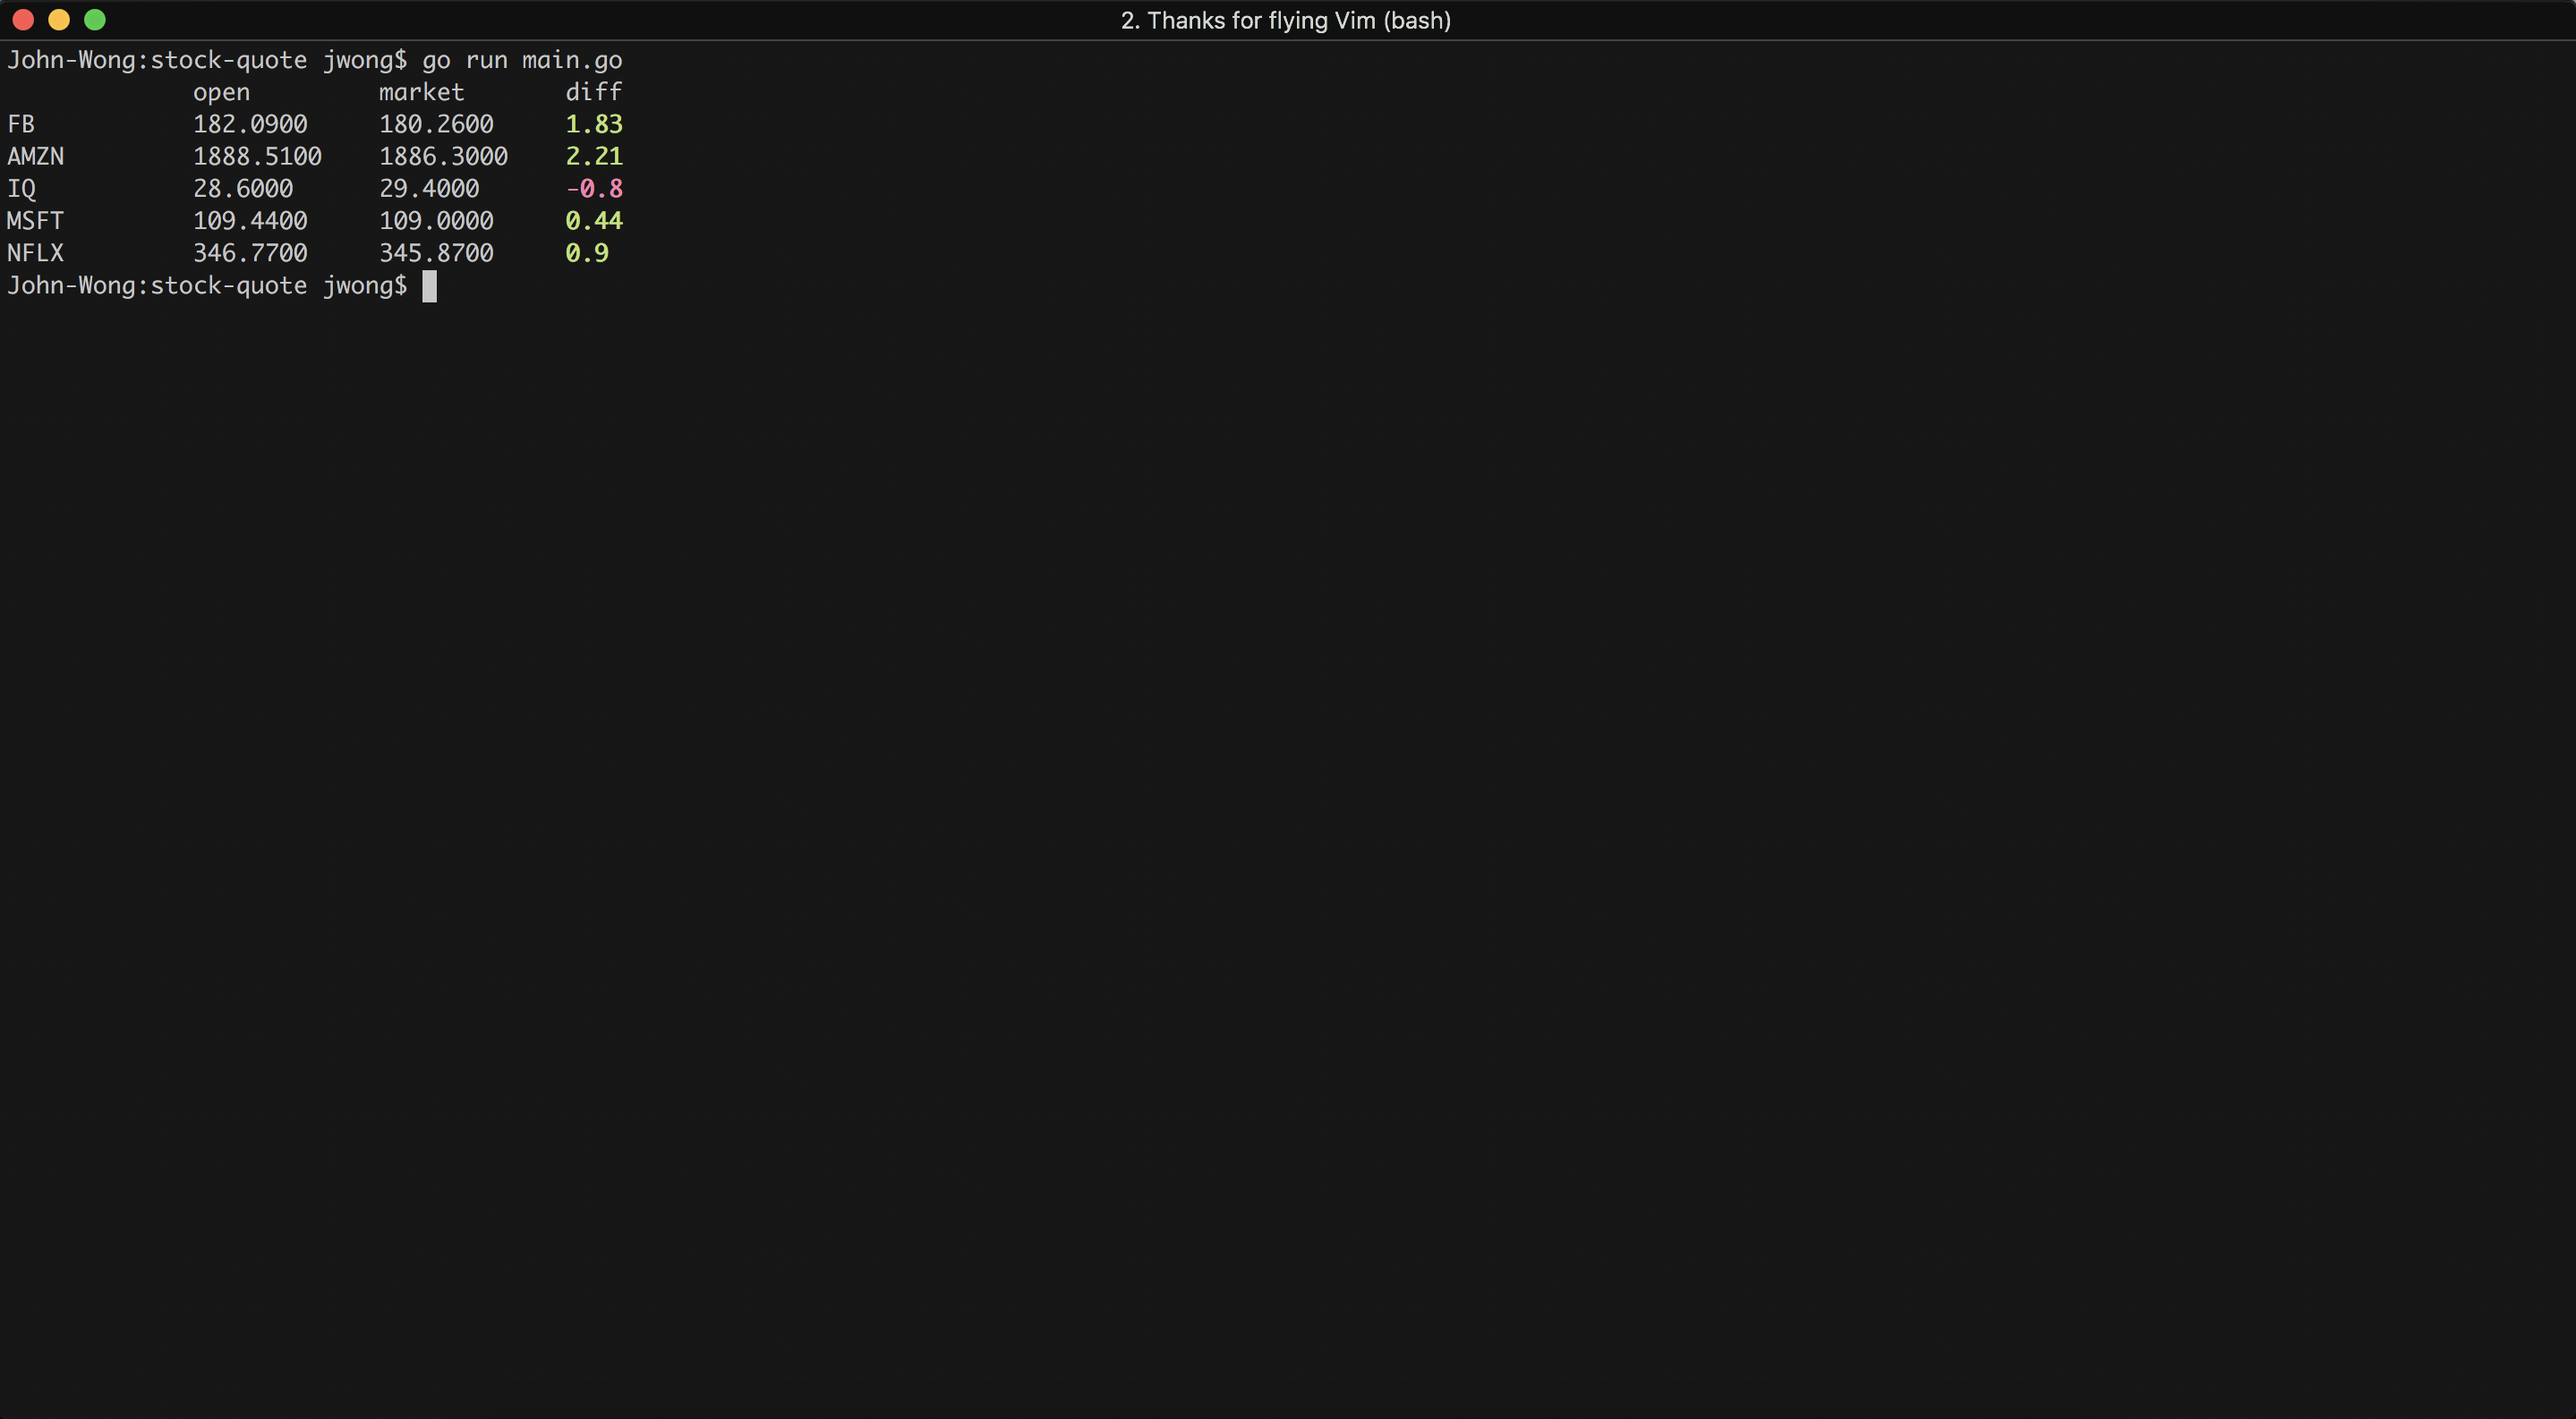
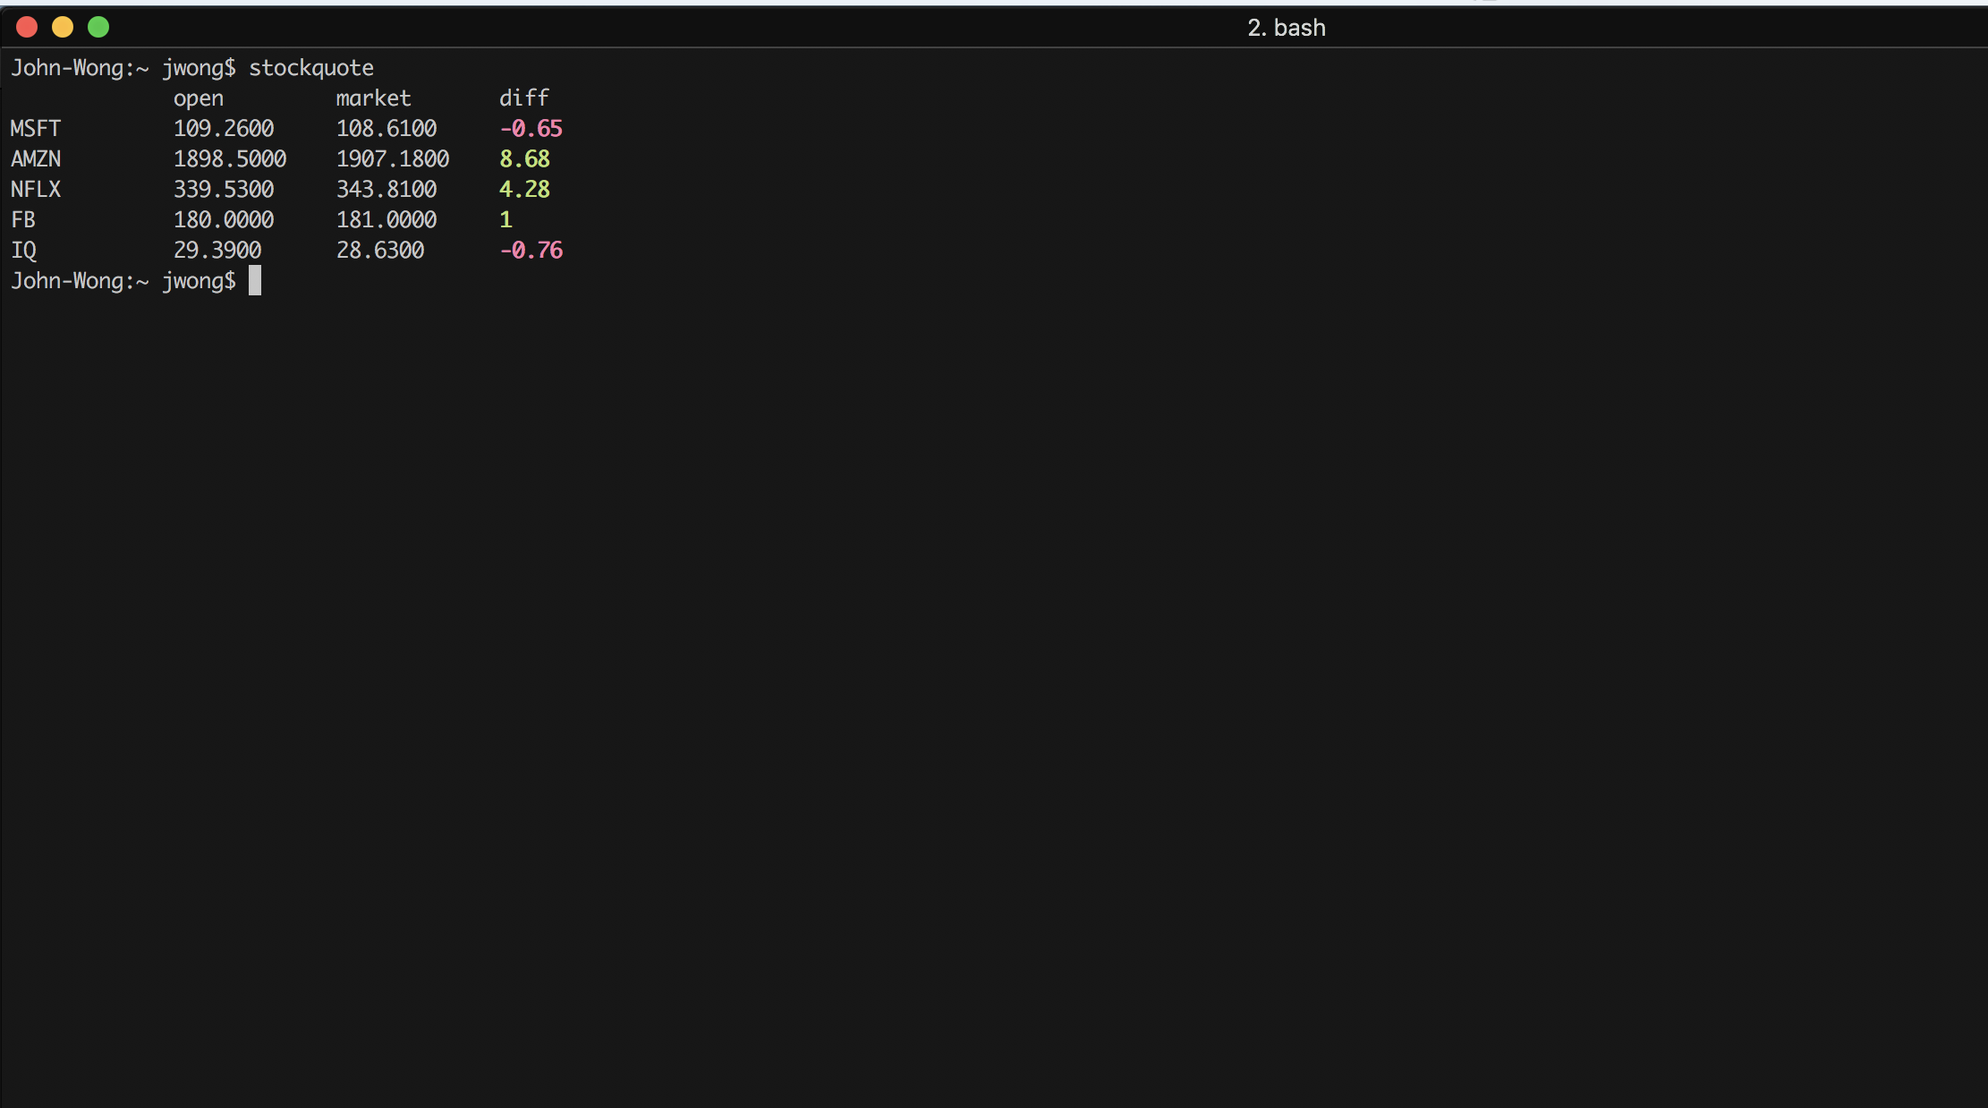
It should be Open - Price

Changed region(s): [[0.0, 0.0, 1.0, 0.2763], [0.2484, 0.2149, 0.2795, 0.2456]]

diff --git a/lib/utils.go b/lib/utils.go
@@ -50,7 +50,7 @@ func PrintToTerminal(symbol string, stock StockQuote) {
   fmt.Printf("%-13s", stock.Price)
 
   // Round up the difference
-  _diff := StrToNum(stock.Open) - StrToNum(stock.Price)
+  _diff := StrToNum(stock.Price) - StrToNum(stock.Open)
   diff := Round(_diff, 0.005)
 
   // Colorized difference

diff --git a/README.md b/README.md
@@ -19,11 +19,11 @@ Run `main.go` or compile it!
 ```
 John-Wong:stock-quote jwong$ go run main.go
              open         market       diff
-FB           182.0900     180.2600     1.83
-IQ           28.6000      29.4000      -0.8
-AMZN         1888.5100    1886.3000    2.21
-MSFT         109.4400     109.0000     0.44
-NFLX         346.7700     345.8700     0.9
+MSFT         109.2600     108.6100     -0.65
+AMZN         1898.5000    1907.1800    8.68
+NFLX         339.5300     343.8100     4.28
+FB           180.0000     181.0000     1
+IQ           29.3900      28.6300      -0.76
 ```
 
 ![Screenshot!](static/screenshot.png?raw=true "Screenshot")
